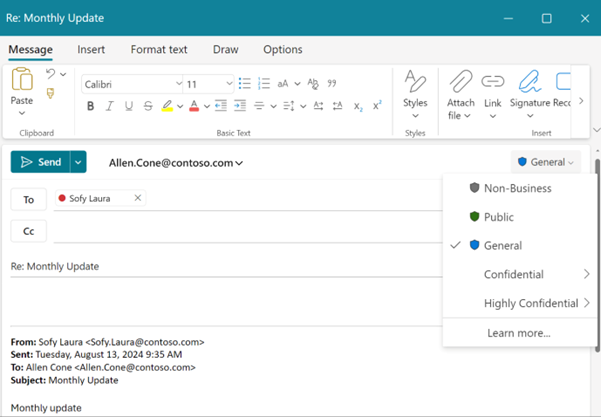
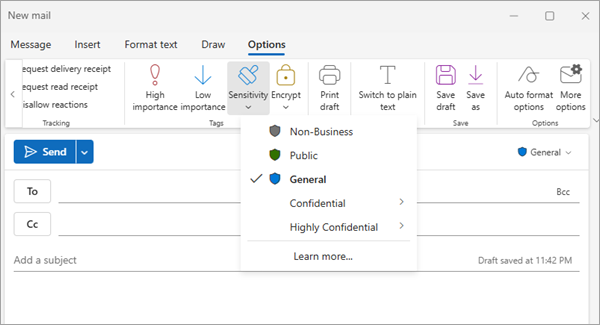
Updated screenshot

diff --git a/outlook/new-outlook-for-windows/get-started/security-compliance.md b/outlook/new-outlook-for-windows/get-started/security-compliance.md
@@ -25,7 +25,7 @@ New Outlook supports comprehensive data security solutions to help organizations
 
 In today's collaborative work environment, content moves freely across devices, apps, and services, often beyond the confines of a firewall. To ensure that this content remains secure and compliant with an organization's policies, Microsoft Purview Information Protection offers sensitivity labels. These labels help classify and protect your organization's data without compromising user productivity or collaboration.
 
-The following screenshot shows the compose pane in new Outlook and the dropdown after selecting the [sensitivity bar](/purview/sensitivity-labels-office-apps#sensitivity-bar). Users can also apply **Sensitivity** labels from the ribbon. On the **Message** tab, go to the **Tags** group and select **Sensitivity**.
+From the compose pane in new Outlook select the [sensitivity bar](/purview/sensitivity-labels-office-apps#sensitivity-bar). Users can also apply **Sensitivity** labels from the ribbon. On the **Options** tab, go to the **Tags** group and select **Sensitivity**.
 
 :::image type="content" source="media/compose-sensitivity-label.png" alt-text="Screenshot showing sensitivity label in the compose a message pane":::
 
